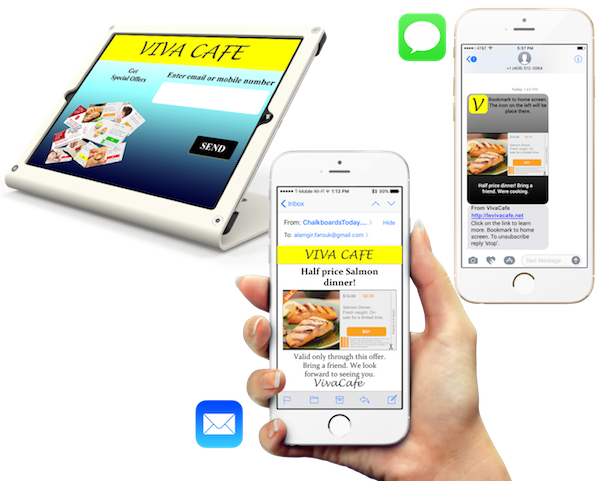
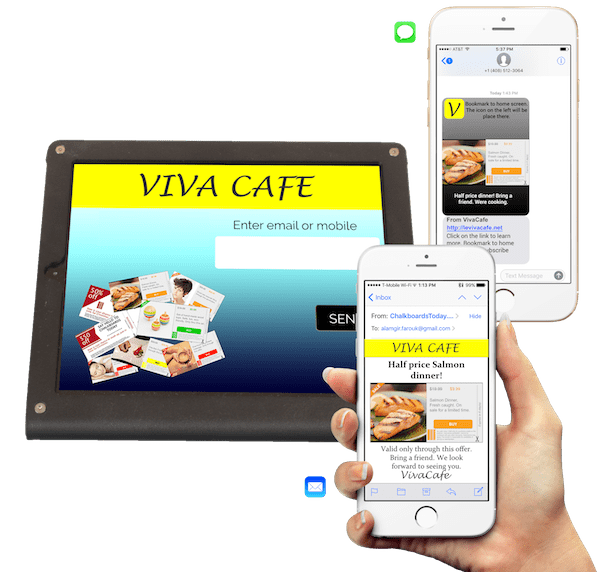
update

diff --git a/app/app_sitelette/sitefiles/pages/content_index.html b/app/app_sitelette/sitefiles/pages/content_index.html
@@ -15,7 +15,7 @@
 				<div class="text_block text-center">
 					<H1 class="title">Engage while you sell</H1>
 					 <h3> with the new Point-of-Engagement </h3>
-					 <h3> Why settle for a point-of-sale? </h3>
+					 <h3> system by Chalkboards </h3>
 
           </P>
 				</div>
@@ -35,7 +35,7 @@
 	<div class="container-fluid">
 		<div class="row how_works_block">
 			<div class="col-xs-12 col-sm-8 col-sm-offset-2 col-md-5 col-md-offset-1 left_block">
-				<span class="title">Its a Point-of-Engagement</span>
+				<span class="title">It's a Point-of-Engagement</span>
 				<p class="text">
 					 The Chalkboards point of sale is also a point of engagement. It recognizes your customers, greets them, and sends them offers and
 					 discounts. Just like you say hello, and greet your customers and smile, so does Chalkboards (well, except for the smile).
@@ -57,14 +57,15 @@
 					You want to add an extra sales counter without hiring an extra employee? Simply install the self-service kiosk. The kiosk doesn't need to take a break, never calls in sick. It takes all forms of credit cards, prints receipts/tickets, and alerts you to
 					new orders in multiple ways. The big corporations are already using self-service, now you can too.
 				</p>
-				<p class="text">
+				<!--<p class="text">
 					You want to increase repeat visits? Loyalty programs are a time-tested way. The kiosk makes it easy. Just pick an item, set the rules and activate the built-in Loyalty manager. The kiosk will do the rest. It will make sure qualifying purchases are counted,
 					awards are given, and will even send out reminder emails if needed. Your customers don’t have to carry a card, or install an app or even sign-up. Just send them email and the link to their digital card is embedded in the email.
 				</p>
+			  -->
 				<!-- <a href="signup" class="get_started_btn wow bounceInLeft">get started</a> -->
  			</div>
 			<div class="col-xs-12 col-sm-12 col-md-6 col-lg-6 right_block">
-				<img  src="sitefiles/images/landing/redPaypalSlider.png" alt="portal" class="iphone_img wow slideInRight">
+				<img  src="sitefiles/images/landing/selfServiceKiosk.png" alt="portal" class="iphone_img wow slideInRight">
 			</div>
 		</div>
 	</div>
@@ -79,10 +80,12 @@
 					You want to reach new customers. Create a promotion or special, share it by social media, email and text. The Kiosk has everything you need to create promotions in minutes and send them to your potential customer or make them public. Email/SMS marketing
 					is already built into the kiosk.
 				</p>
+				<!--
 				<p class="text">
 					When customers visit, the Kiosk will identify and greet them, show them their personalized offers and apply the discounts accurately. You don’t have to enter any numbers or train your staff. The Kiosk can manage coupons end-to-end, from creating to sending
 					to redeeming.
 				</p>
+			-->
  			</div>
 			<div class="col-xs-12 col-sm-12 col-md-6 col-lg-6 right_block">
 				<img  src="sitefiles/images/landing/emailSMSkiosk.png" alt="portal" class="iphone_img wow slideInRight">
